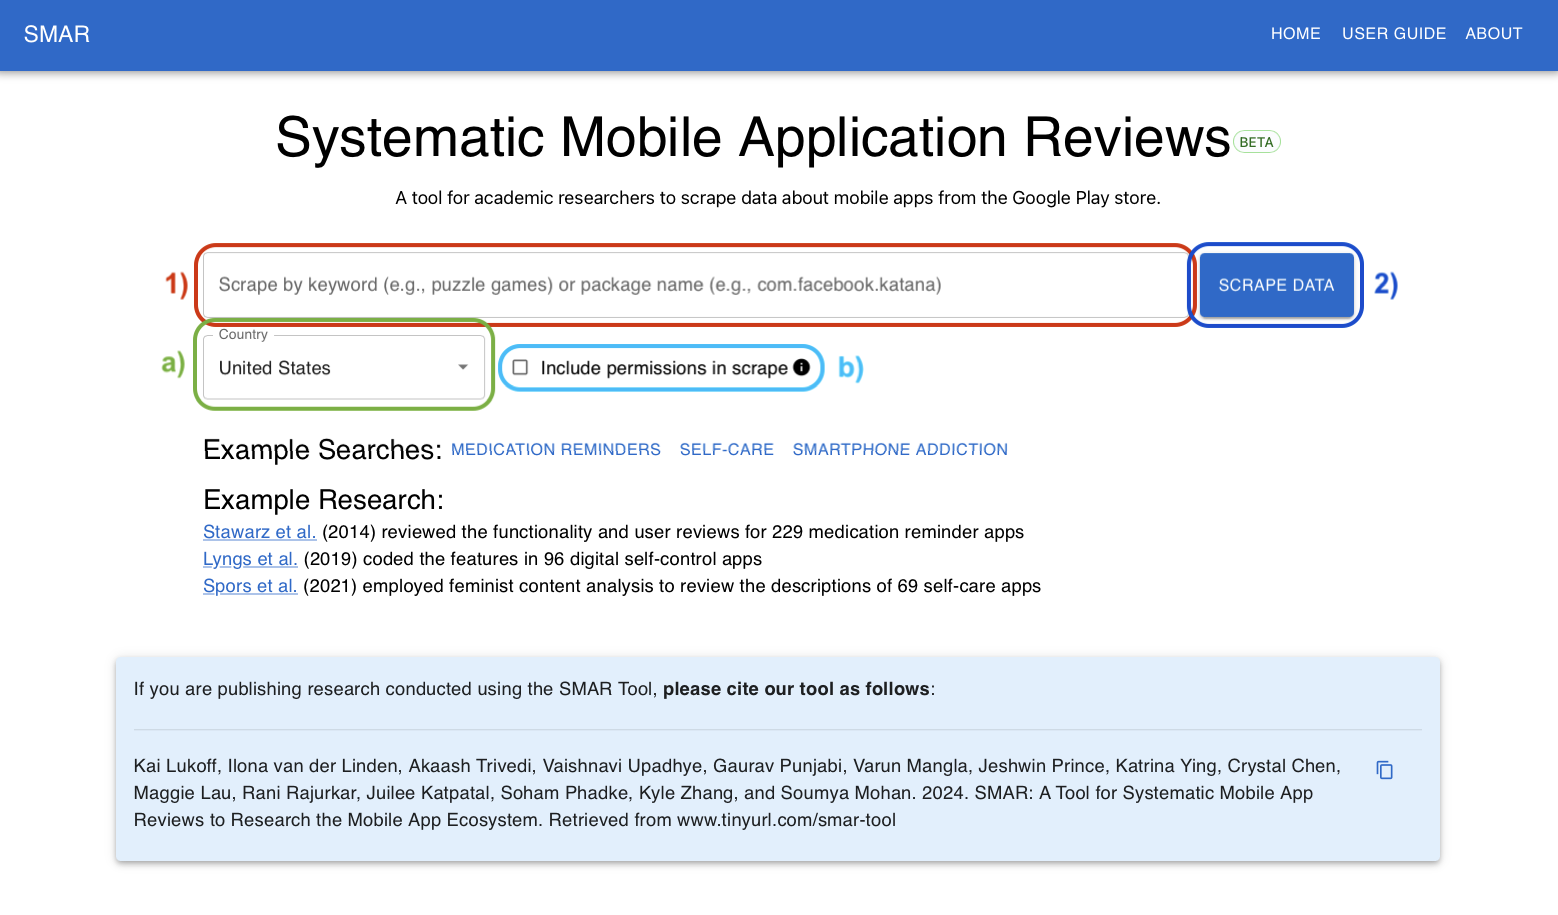
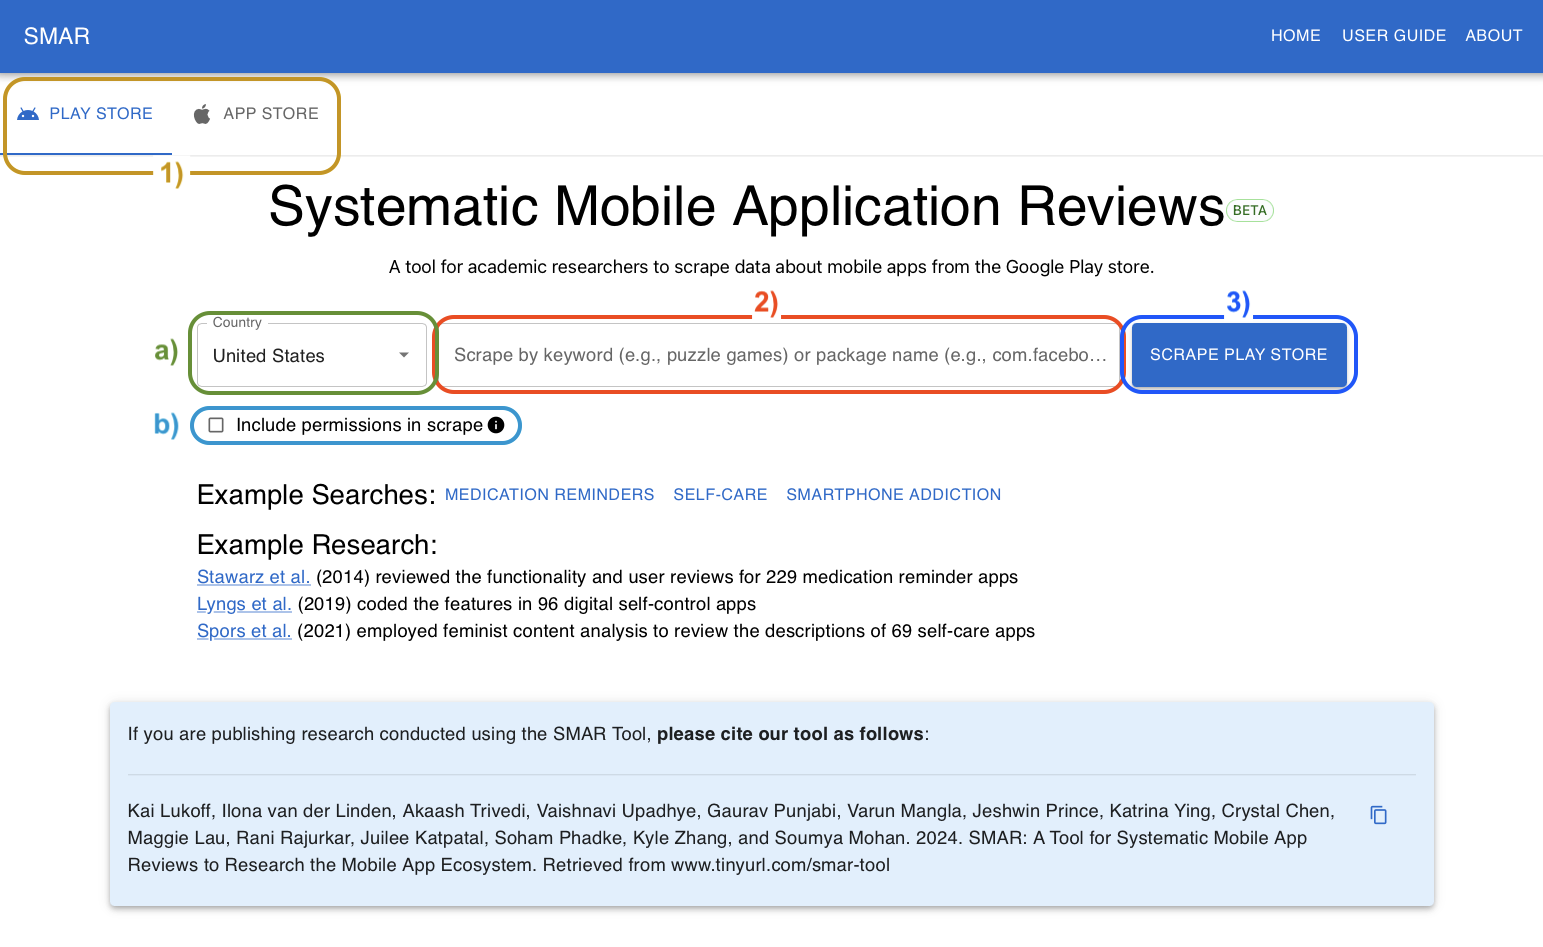
Updated user guide to support iOS scraper, consolidated other changes

Changed region(s): [[0.0, 0.0306, 0.9332, 0.9792], [0.8088, 0.0306, 0.9955, 0.0612]]

diff --git a/src/pages/UserGuide.jsx b/src/pages/UserGuide.jsx
@@ -1,14 +1,20 @@
 import React from 'react';
 import { Typography, Container, Divider, Box, Link } from '@mui/material';
-import { Table, TableBody, TableCell, TableContainer, TableHead, TableRow, Paper } from '@mui/material'
+import { Table, TableBody, TableCell, TableContainer, TableHead, TableRow, Paper, ToggleButton, ToggleButtonGroup } from '@mui/material'
 import Footer from '../components/Footer';
 import "../css/UserGuide.css";
+import { Android, Apple } from '@mui/icons-material';
 
 const UserGuide = () => {
+    const [selectedStore, setSelectedStore] = React.useState('PS')
+    const handleChange = (event, newStore) => {
+        setSelectedStore(newStore);
+    };
+
     const createData = (name, desc) => {
         return { name, desc };
     }
-    const appRows = [
+    const appRows_PlayStore = [
         createData('appName', 'Name of the app'),
         createData('appID', 'App bundle identifier'),
         createData('url', 'App page URL (Play Store)'),
@@ -18,7 +24,7 @@ const UserGuide = () => {
         createData('currency', 'Currency to purchase app'),
         createData('price', 'Purchase cost of app'),
         createData('description', 'App description on Play Store'),
-        createData('avgRating', 'Average app rating'),
+        createData('avgRating', 'Average app rating (out of 5)'),
         createData('country', "Play Store country code"),
         createData('scrapedFrom', 'Two possible values: (1) Keyword search results - the results from searching for a keyword in Google Play. While Google Play previously returned hundreds of results it now returns a maximum of 30 results for a keyword search, as of September 2024. (2) Similar app links - Links (if any) to “Similar Apps/Games” shown on the app profile page for each of the keyword search results. This allows researchers to gather a larger number of apps that are related to a specific keyword. Regardless of how many times an app appears in “Similar Apps/Games” it is only shown once in the CSV (duplicates are removed).'),
         createData('approximateInstalls', 'Approximation of total app downloads/installs'),
@@ -42,16 +48,67 @@ const UserGuide = () => {
         createData('currentVersionChanges', 'Release notes from latest app update'),
         createData('dateScraped', 'Timestamp, date from when this app data was scraped')
       ]
-    const reviewRows = [
-        createData('reviewID', 'Review’s unique ID registered with the Play Store'),
+    const reviewRows_PlayStore = [
+        createData('reviewID', "Review's unique ID registered with the Play Store"),
         createData('dateReviewed', 'Date on which review was published'),
         createData('rating', 'App rating as given by review'),
-        createData('reviewURL', 'Review’s Play Store URL'),
+        createData('reviewURL', "Review's Play Store URL"),
         createData('reviewText', 'Actual review text'),
         createData('developerReplyDate', 'Date on which the developer replied to the review, if at all'),
         createData('developerReplyText', 'The actual developer reply to the posted review, if it exists'),
-        createData('versionWhenReviewed', 'App’s version number at the time when the current review was published'),
+        createData('versionWhenReviewed', "App's version number at the time when the current review was published"),
         createData('helpfulVotes', 'Number of people that found this review helpful and upvoted it'),
+        createData('dateScraped', 'Timestamp, date from when this review data was scraped')
+      ]
+
+    const appRows_AppStore = [
+        createData('appID', 'App bundle identifier'),
+        createData('appName', 'Name of the app'),
+        createData('url', 'App page URL (App Store)'),
+        createData('icon', 'App image icon URL'),
+        createData('genres', 'A comma separated list of genres this app falls within'),
+        createData('genreIDs', 'A comma separated list of genre IDs corresponding to the genres this app falls within'),
+        createData('primaryGenre', 'The primary genre this app is classified within'),
+        createData('primaryGenreId', 'The ID of the primary genre this app is classified within'),
+        createData('contentRating', "App's content rating as described on App Store"),
+        createData('supportedLanguages', 'The various languages officially supported by this app'),
+        createData('appSizeInBytes', 'Size of the app (in Bytes)'),
+        
+        createData('requiredOsVersion', 'Minimum iOS (and iPadOS, if supported) version necessary to run app'),
+        createData('originalReleaseDate', "App's initial release date"),
+        createData('lastUpdated', 'Timestamp of when the app was last updated by the developer'),
+        createData('releaseNotes', 'Release notes from latest app update'),
+        createData('currentAppVersion', 'Current app version'),
+        createData('price', 'Purchase cost of app'),
+        createData('currency', 'Currency to purchase app'),
+        createData('developerID', "App developer's ID as registered with App Store"),
+        createData('developer', 'App developer'),
+        createData('developerAppStorePageURL', "The URL of the developer's page on the App Store"),
+        createData('developerWebsite', "App developer's website"),
+        createData('avgRating', 'Average app rating (out of 5)'),
+        createData('totalReviews', 'Total number of user provided reviews'),
+        createData('currentVersionAvgRating', 'The average app rating for the most recent (currently released) version'),
+        createData('currentVersionReviews', 'Number of user provided reviews for the most recent (current) version of the app'),
+        createData('appScreenshots', 'Screenshot previews of the app from its App Store page'),
+        createData('appIpadScreenshots', 'Screenshot previews of the iPad app (if officially supported)'),
+        createData('appletvScreenshots', 'Screenshot previews of the Apple TV app (if officially supported)'),
+        createData('supportedDeviceList', 'A list of various devices that are supported by the app'),
+        createData('country', "App Store country code"),
+        createData('scrapedFrom', 'Two possible values: (1) Keyword search results - the results from searching for a keyword in Google Play. While Google Play previously returned hundreds of results it now returns a maximum of 30 results for a keyword search, as of September 2024. (2) Similar app links - Links (if any) to “Similar Apps/Games” shown on the app profile page for each of the keyword search results. This allows researchers to gather a larger number of apps that are related to a specific keyword. Regardless of how many times an app appears in “Similar Apps/Games” it is only shown once in the CSV (duplicates are removed).'),
+        createData('dateScraped', 'Timestamp, date from when this app data was scraped'),
+      ]
+
+    const reviewRows_AppStore = [
+        createData('reviewID', "Review's unique ID registered with the App Store"),
+        createData('userUrl', "Review's App Store URL"),
+        createData('versionWhenReviewed', "App's version number at the time when the current review was published"),
+        createData('rating', 'App rating as given by review'),
+        createData('reviewText', 'Actual review text'),
+        createData('reviewURL', "Review's App Store URL"),
+
+        createData('dateReviewed', 'Date and time when the review was published'),
+        
+        createData('country', 'App Store country code'),
         createData('dateScraped', 'Timestamp, date from when this review data was scraped')
       ]
 
@@ -183,15 +240,15 @@ const UserGuide = () => {
 
             <Typography variant="h5" className="section-sub-header" id="Keyword_Search">Conducting a Keyword Search</Typography>
             <Typography variant="body1" className="main-text">
-                The SMAR Tool is designed around the central search bar that allows 
-                users to quickly retrieve a filtered list of applications from the Google Play Store in a certain country. 
+                The SMAR Tool is designed around the central search bar that allows users to quickly retrieve a filtered 
+                list of applications from either the Google Play Store or Apple App Store in a certain country. 
             </Typography>
             <br/>
             <Typography variant="body1" className="main-text">
-                <b>1.</b> To get started, type in a search keyword (1). The Google Play Store country can be changed using the dropdown menu 
-                (a), which also supports type to search. Optionally, check the 'Include permissions in scrape' button b) to also 
-                retrieve individual app permissions (such as microphone or camera access). Click on the 'Scrape Data'  button (2) to 
-                begin the search process.
+                <b>1.</b> To get started, select which app store you would like to search (1) and type in a search keyword (2). The 
+                country can be changed using the dropdown menu (a), which also supports type to search. <i>If scraping the Google Play Store,
+                the 'Include permissions in scrape' button (b) will be visible, and can be checked to retrieve individual app permissions (such as microphone or 
+                camera access) in addition to other app metadata.</i> Click on the 'Scrape Data'  button (3) to begin the search process.
             </Typography>
                 <Box display="flex" justifyContent="center" alignItems="center">
                     <img src={require('../res/SMAR_Home_Screen.png')} className="inline-image" alt="SMAR steps" />
@@ -208,10 +265,13 @@ const UserGuide = () => {
 
             <Typography variant="body1" className="main-text">
                 <b>3.</b> Once the search has completed, a portion of the page will update with search results. A preview of the first 
-                few results will be visible (3) and are horizontally scrollable, while additional results can be viewed using the 
-                pagination controls (4). User reviews for each application can be scraped by clicking the corresponding 
-                row's 'scrape reviews' button (5). The full list of results, along with a reproducibility log containing SMAR search 
-                metadata can be downloaded by clicking the button at the bottom of the page (6). 
+                few results will be visible (4) and are horizontally scrollable, while additional results can be viewed using the 
+                pagination controls (5). User reviews for applications can be scraped by clicking the corresponding row's 'scrape 
+                reviews' button (6) which will be enabled if the application contains less than 100,000 reviews -- <i>note that for 
+                the App Store, there is a maximum of 500 reviews that can be scraped for a given application.</i> The full list of results, 
+                along with a reproducibility log containing SMAR search metadata can be downloaded by clicking the button at the bottom 
+                of the page (7). The descriptions regarding each individual metadata field, for both the Play Store and App Store, can be 
+                found in the next section 'SMAR Metadata Breakdown'.
             </Typography>
                 <Box display="flex" justifyContent="center" alignItems="center">
                     <img src={require('../res/SMAR_Results_Screen.png')} className="inline-image" alt="SMAR steps" />
@@ -226,14 +286,50 @@ const UserGuide = () => {
             <br/><br/>
 
             <Typography variant="h4" className="section-header" id="SMAR_Metadata_Breakdown">SMAR Metadata Breakdown</Typography>
-            
-            <Typography variant="h5" className="section-sub-header" id="App_Metadata">App Metadata</Typography>
-            <br/>
-            <MetadataTable rows={appRows}/>
-            <br/><br/>
 
-            <Typography variant="h5" className="section-sub-header" id="Review_Metadata">Review Metadata</Typography>
-            <MetadataTable rows={reviewRows}/>
+            <ToggleButtonGroup
+                color="primary"
+                value={selectedStore}
+                exclusive
+                onChange={handleChange}
+                aria-label="Platform"
+                sx={{ marginBottom: 3, marginTop: 3 }}
+            >
+                <ToggleButton value="PS">
+                    <Android style={{ marginRight: 10 }}/>
+                    Play Store
+                </ToggleButton>
+                <ToggleButton value="AS">
+                    <Apple style={{ marginRight: 8 }}/>
+                    App Store
+                </ToggleButton>
+            </ToggleButtonGroup>
+
+            {selectedStore === "PS" && (
+                <div>
+                    <Typography variant="h5" className="section-sub-header" id="App_Metadata">App Metadata (Play Store)</Typography>
+                    <br/>
+
+                    <MetadataTable rows={appRows_PlayStore}/>
+                    <br/><br/>
+
+                    <Typography variant="h5" className="section-sub-header" id="Review_Metadata">Review Metadata (Play Store)</Typography>
+                    <MetadataTable rows={reviewRows_PlayStore}/>
+                </div>
+            )}
+
+            {selectedStore === "AS" && (
+                <div>
+                    <Typography variant="h5" className="section-sub-header" id="App_Metadata">App Metadata (App Store)</Typography>
+                    <br/>
+
+                    <MetadataTable rows={appRows_AppStore}/>
+                    <br/><br/>
+
+                    <Typography variant="h5" className="section-sub-header" id="Review_Metadata">Review Metadata (App Store)</Typography>
+                    <MetadataTable rows={reviewRows_AppStore}/>
+                </div>
+            )}
 
             <br/><br/><br/>
             <Divider variant="li" />

diff --git a/src/components/SearchBar.js b/src/components/SearchBar.js
@@ -264,6 +264,7 @@ const SearchBar = ({ flipState, selectedScraper }) => {
   return (
     <div className="search-bar-container">
       <div className="search-and-button-container">
+        <Dropdown handler={handleCountryChange} />
         <TextField
           label="Scrape by keyword (e.g., puzzle games) or package name (e.g., com.facebook.katana)"
           variant="outlined"
@@ -293,9 +294,8 @@ const SearchBar = ({ flipState, selectedScraper }) => {
           alignItems="center"
           spacing={3}
         >
-          <Dropdown handler={handleCountryChange} />
           {selectedScraper === "Play Store" && (
-            <div className="permissions-checkbox">
+            <div className='permissions-checkbox' style={{ marginLeft: '10px' }}>
               <Stack
                 direction="row"
                 justifyContent="flex-start"

diff --git a/src/components/NavigationBar.js b/src/components/NavigationBar.js
@@ -20,9 +20,6 @@ const NavigationBar = ({ refresh }) => {
           <Button color="inherit" component={Link} to="/userguide">
             User Guide
           </Button>
-          <Button color="inherit" component={Link} to="/citation">
-            Citation
-          </Button>
           <Button color="inherit" component={Link} to="/about">
             About
           </Button>

diff --git a/src/components/Dropdown.js b/src/components/Dropdown.js
@@ -48,7 +48,7 @@ export default function Dropdown({ handler }) {
           onBlur={handleBlur}     // Mark as not editing when blurred
         />
       )}
-      sx={{ width: '400px' }}
+      sx={{ width: '200px' }}
     />
   );
 }
